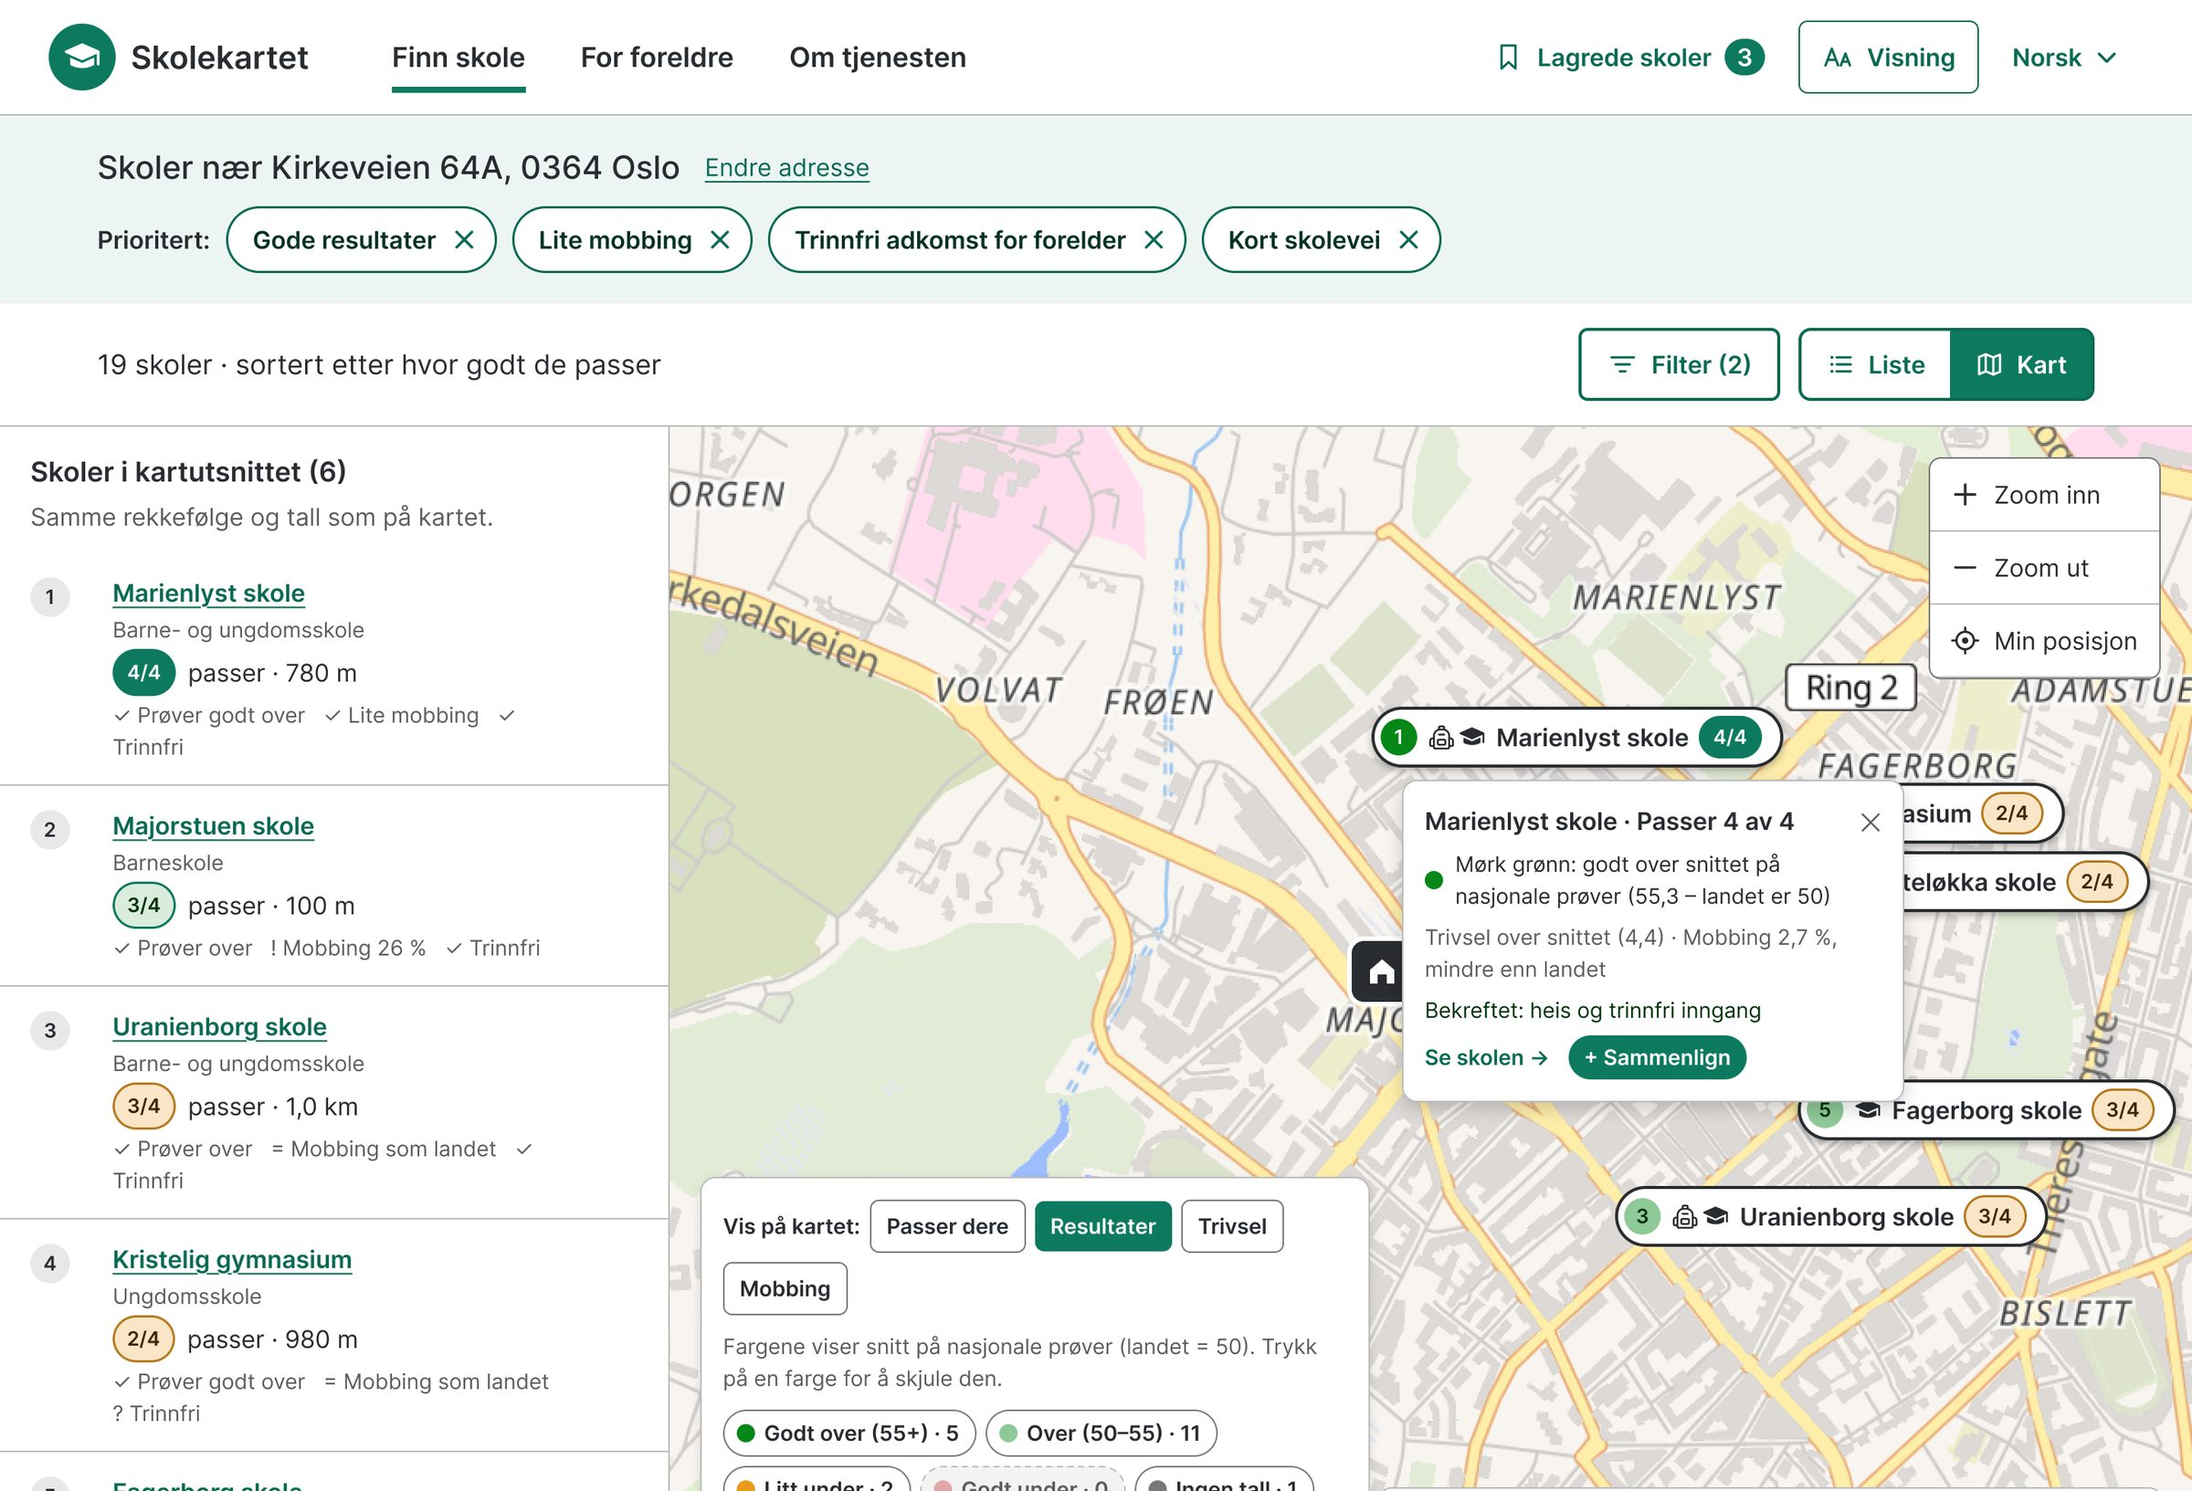
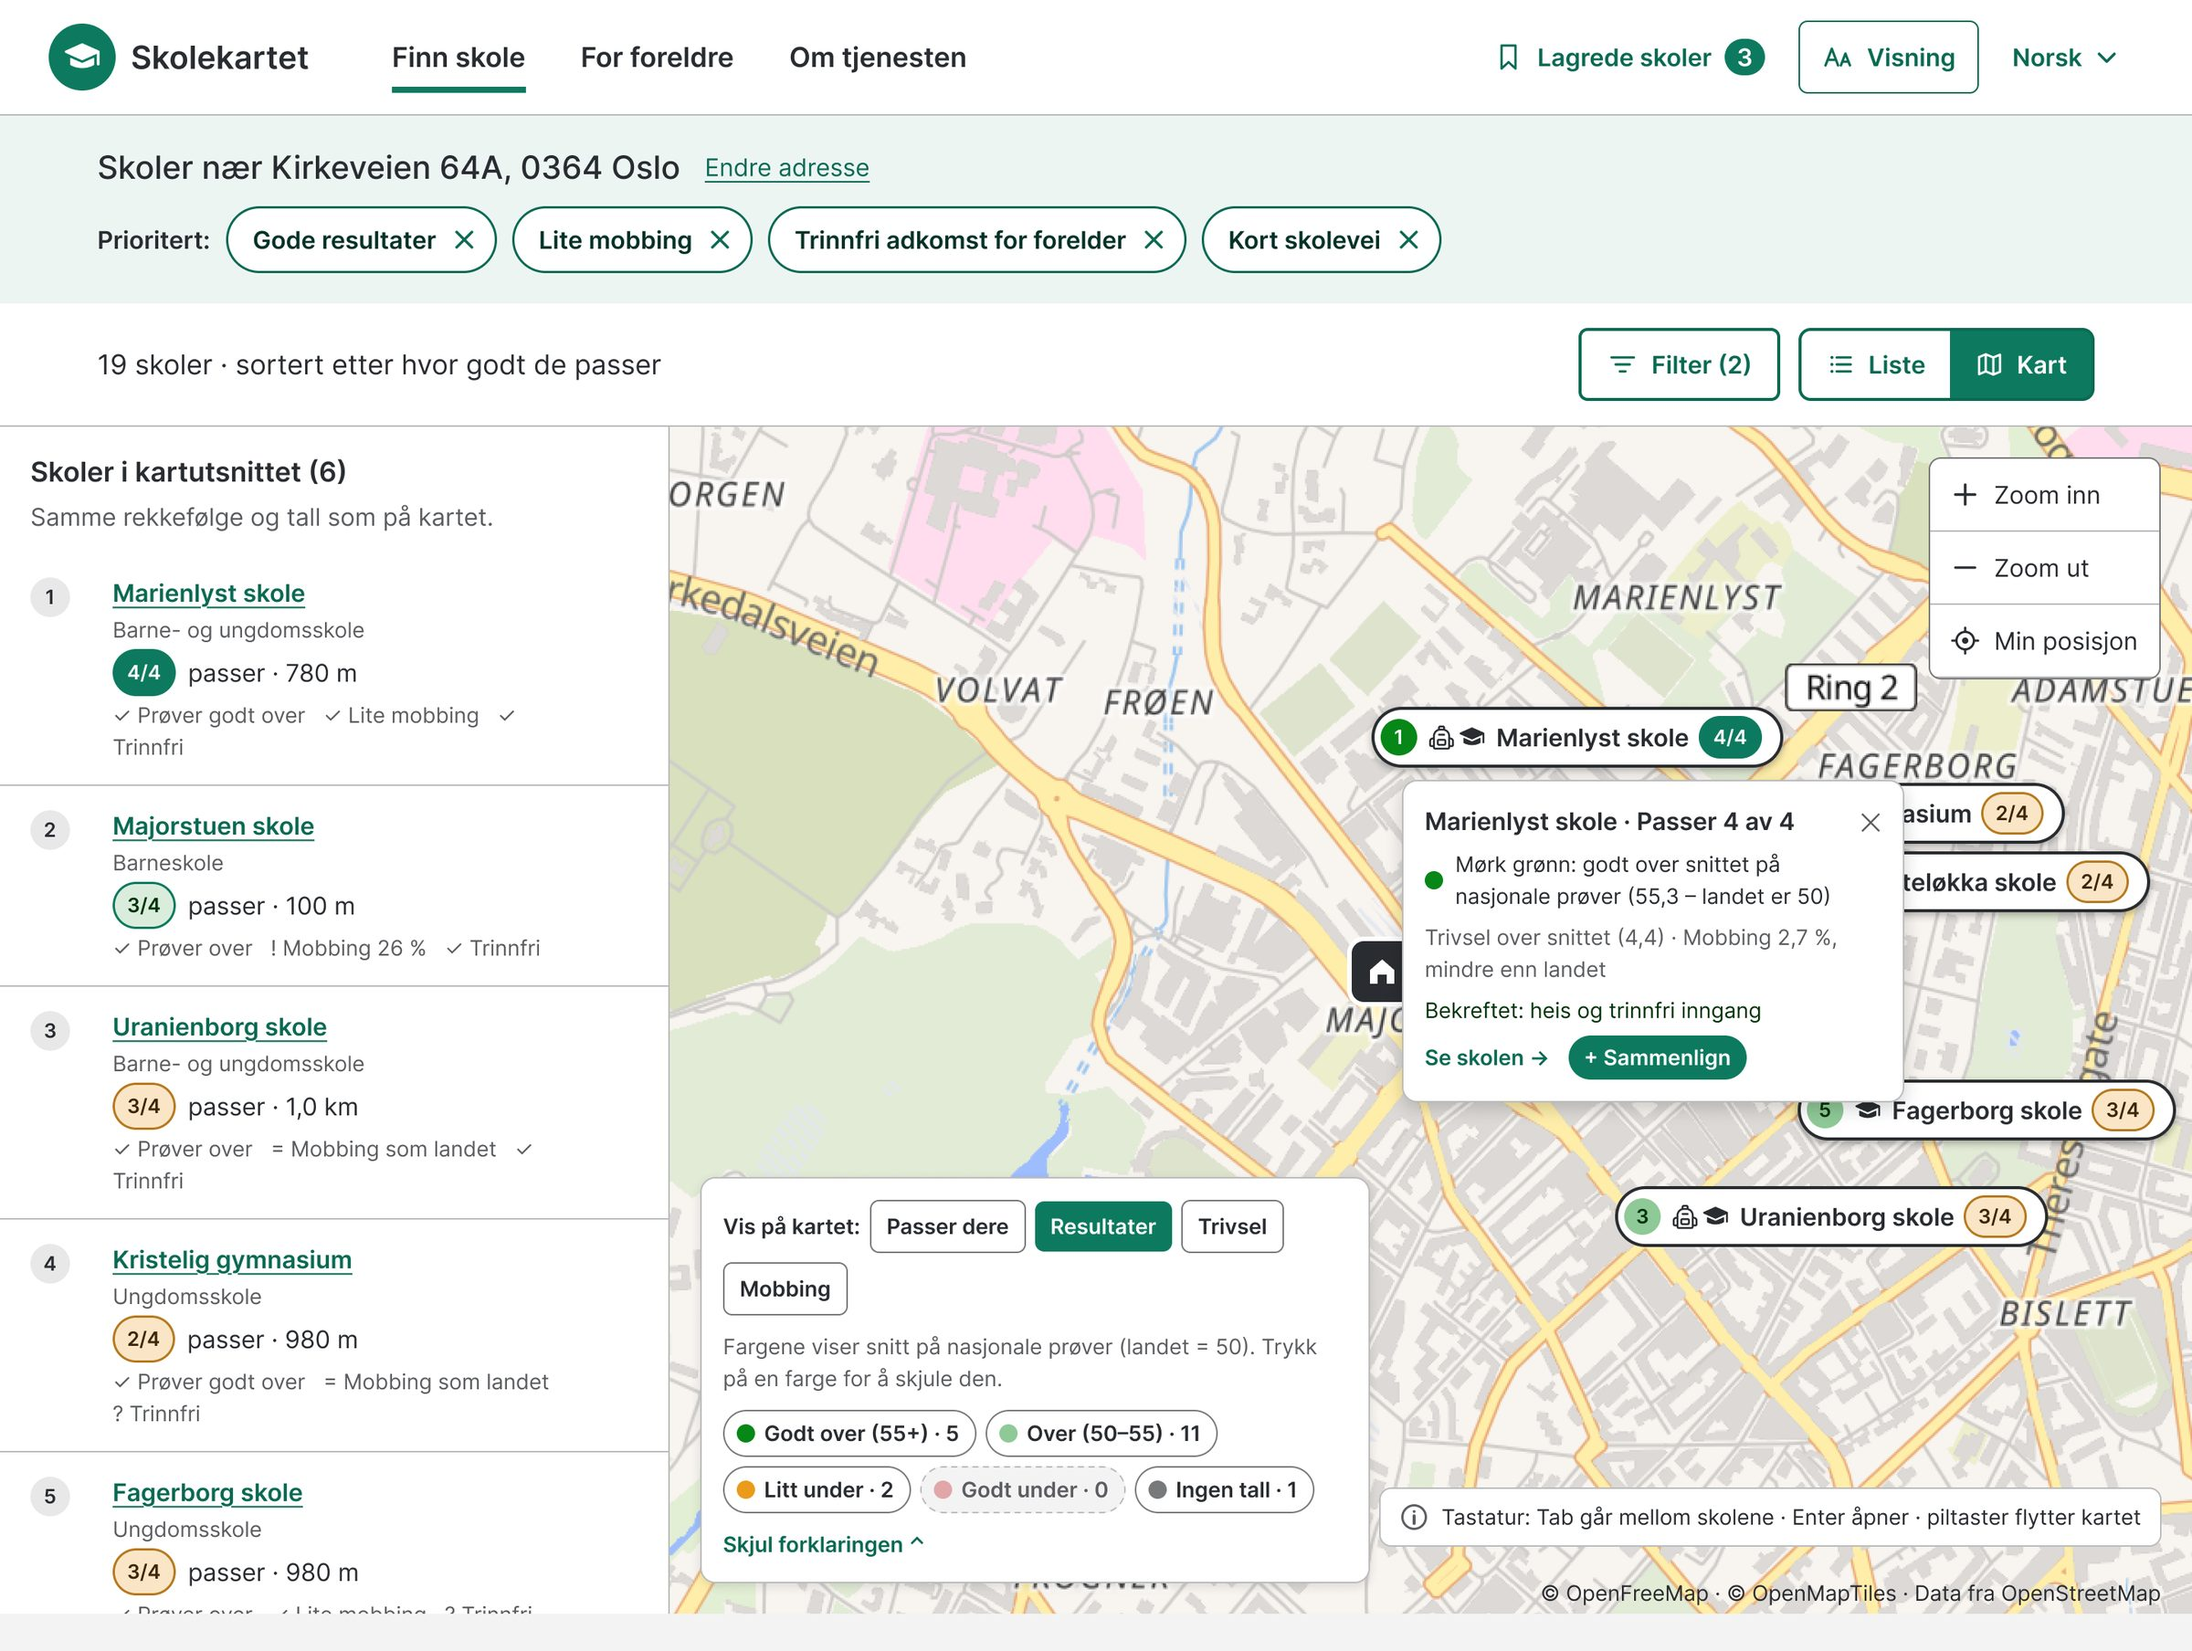
Skolekartet case: show the whole map with the legend panel
The map image was cropped above the bottom-left legend panel. Export the
full map and update its height.

diff --git a/skolekartet.html b/skolekartet.html
@@ -580,7 +580,7 @@
           </p>
         </div>
         <figure>
-          <img src="assets/case/sk/cmb-map.jpg" width="2400" height="1633" loading="lazy"
+          <img src="assets/case/sk/cmb-map.jpg" width="2400" height="1808" loading="lazy"
                alt="Map view: a panel to show fit, results, wellbeing or bullying, legend buttons with a count for each colour, pins coloured by test results with fit counts, and an explanation box for Marienlyst school: dark green, well above average at 55.3, wellbeing above average, bullying 2.7 percent, lift and step-free entrance confirmed." />
         </figure>
       </div>
@@ -768,7 +768,7 @@
 
       <div class="sk-trio">
         <figure>
-          <img src="assets/case/sk/cmb-map.jpg" width="2400" height="1633" loading="lazy"
+          <img src="assets/case/sk/cmb-map.jpg" width="2400" height="1808" loading="lazy"
                alt="Desktop map view: a list on the left synced with the map, a panel to choose what the map shows with legend buttons that can be hidden, coloured pins with fit counts, and a closable explanation for Marienlyst school." />
           <figcaption data-en="The map came back, but never as the only way in: every marker is also a row in the list." data-no="Kartet kom tilbake, men aldri som eneste vei inn: hver markør er også en rad i listen.">The map came back, but never as the only way in: every marker is also a row in the list.</figcaption>
         </figure>
